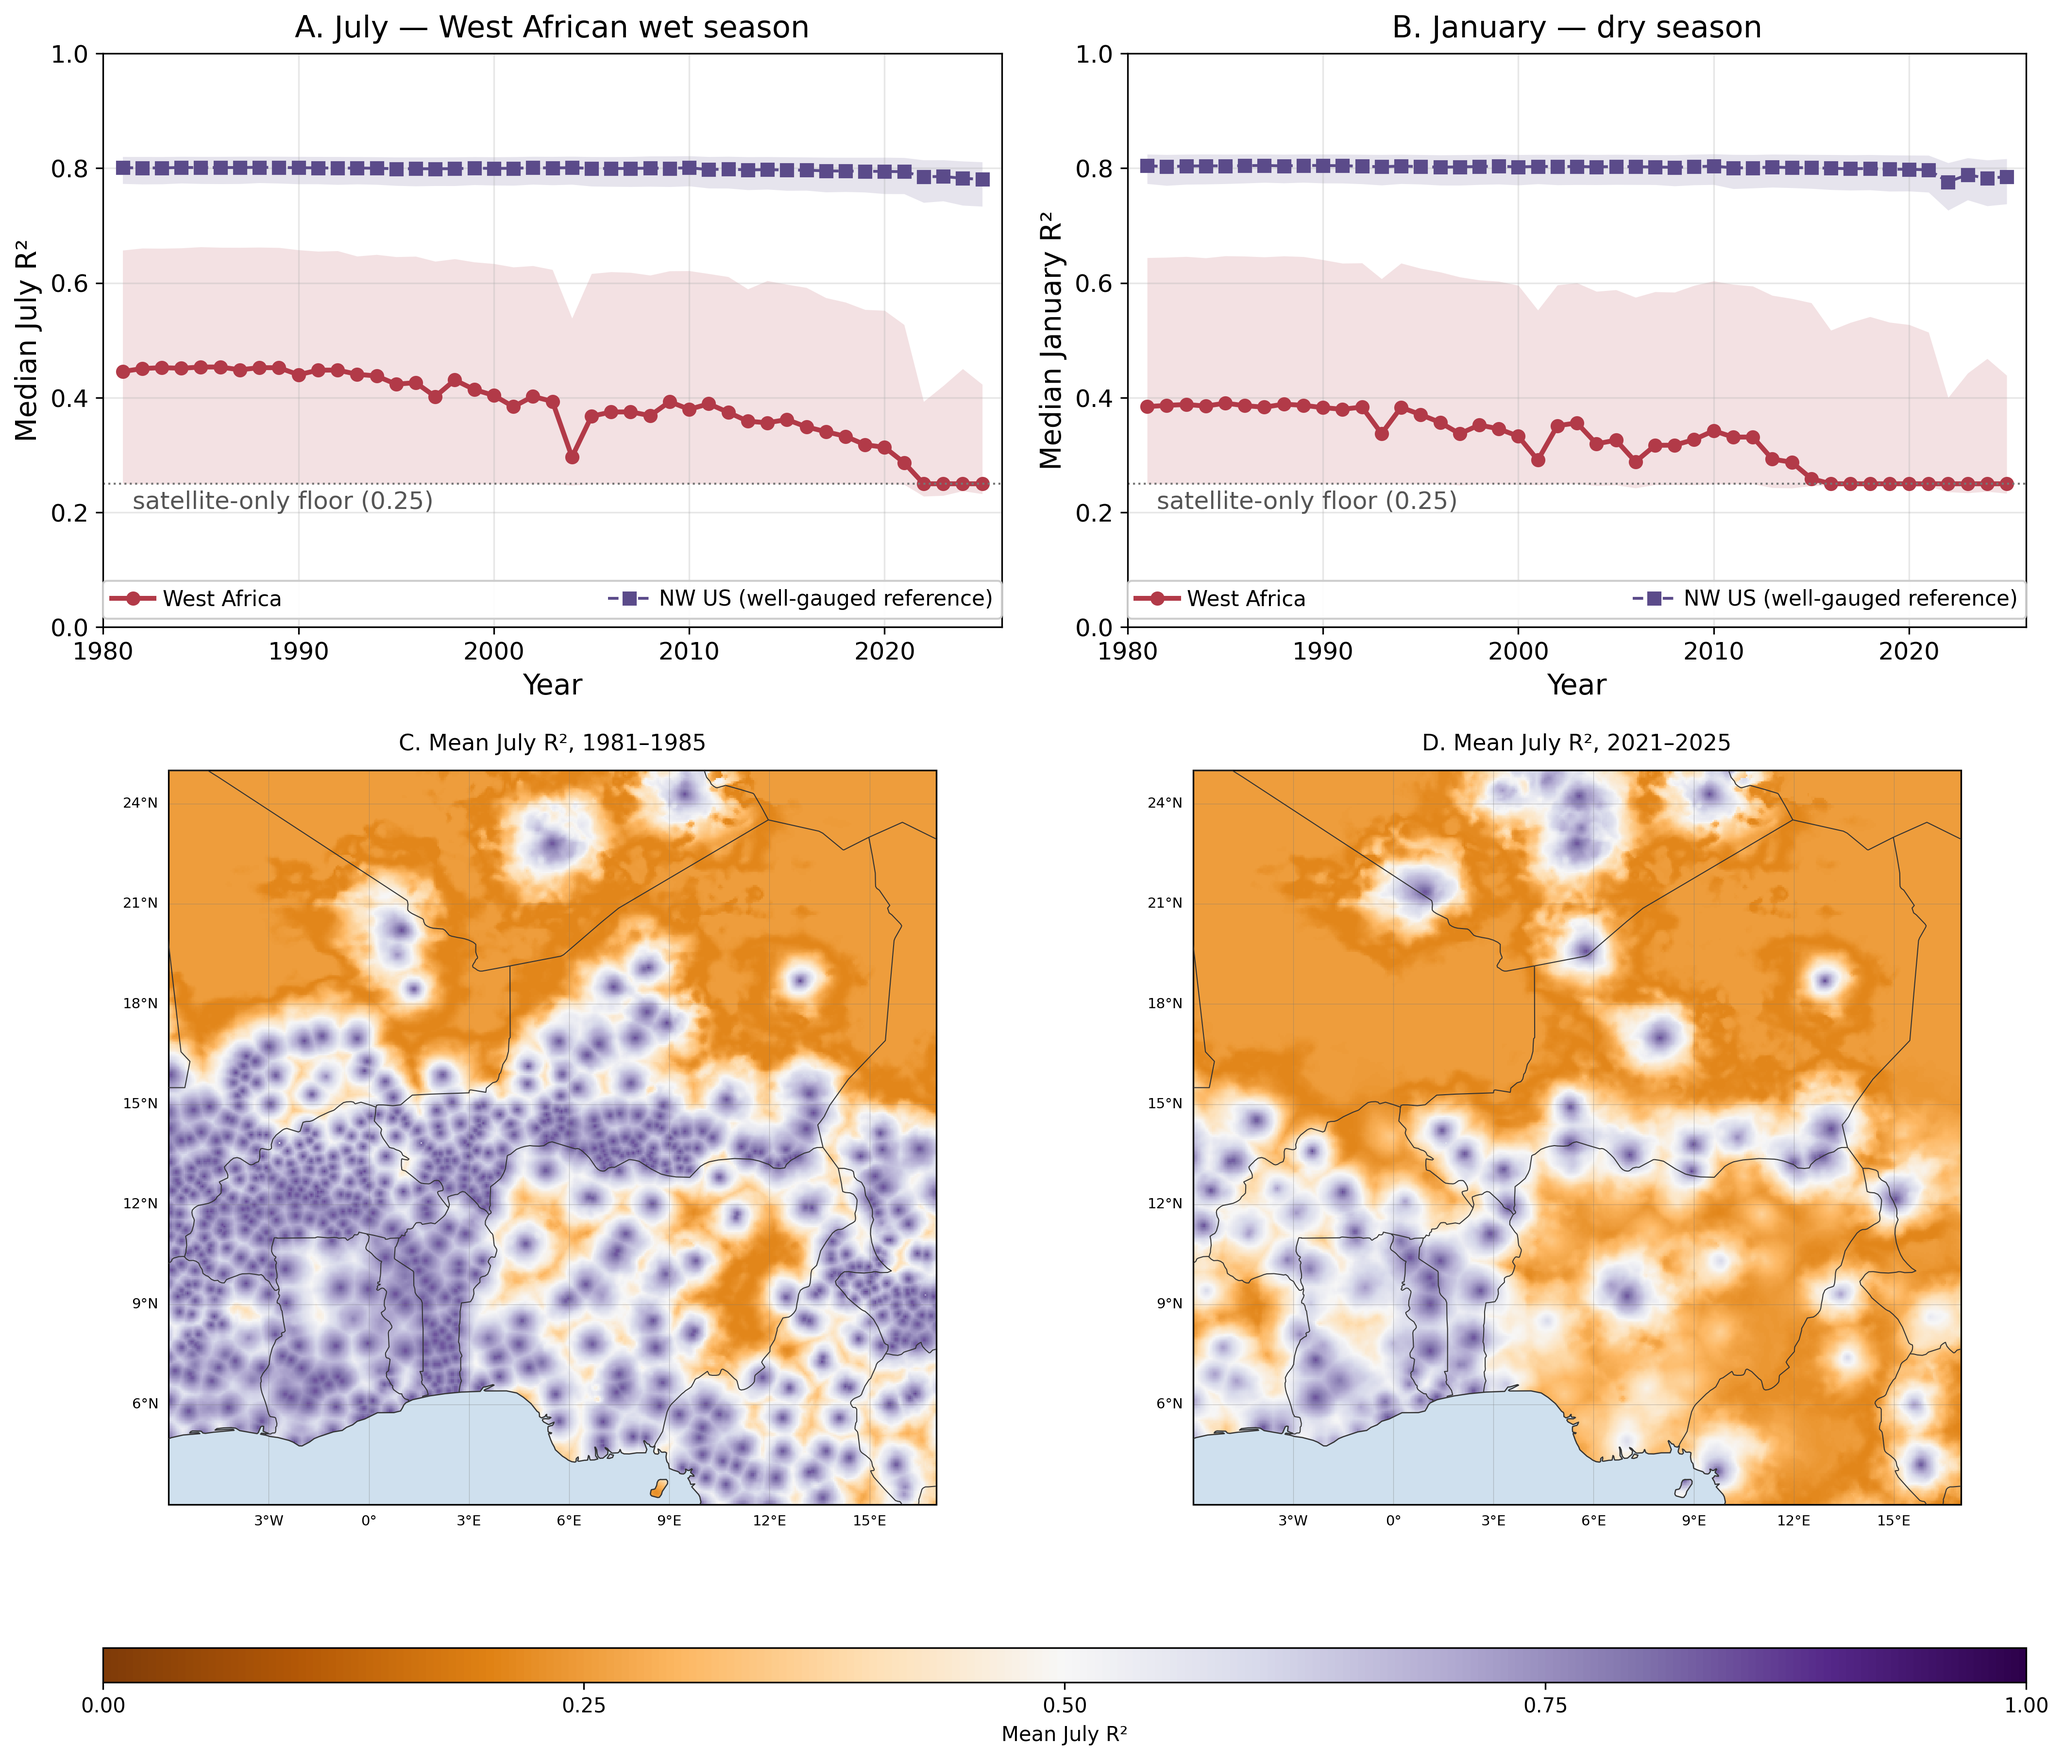
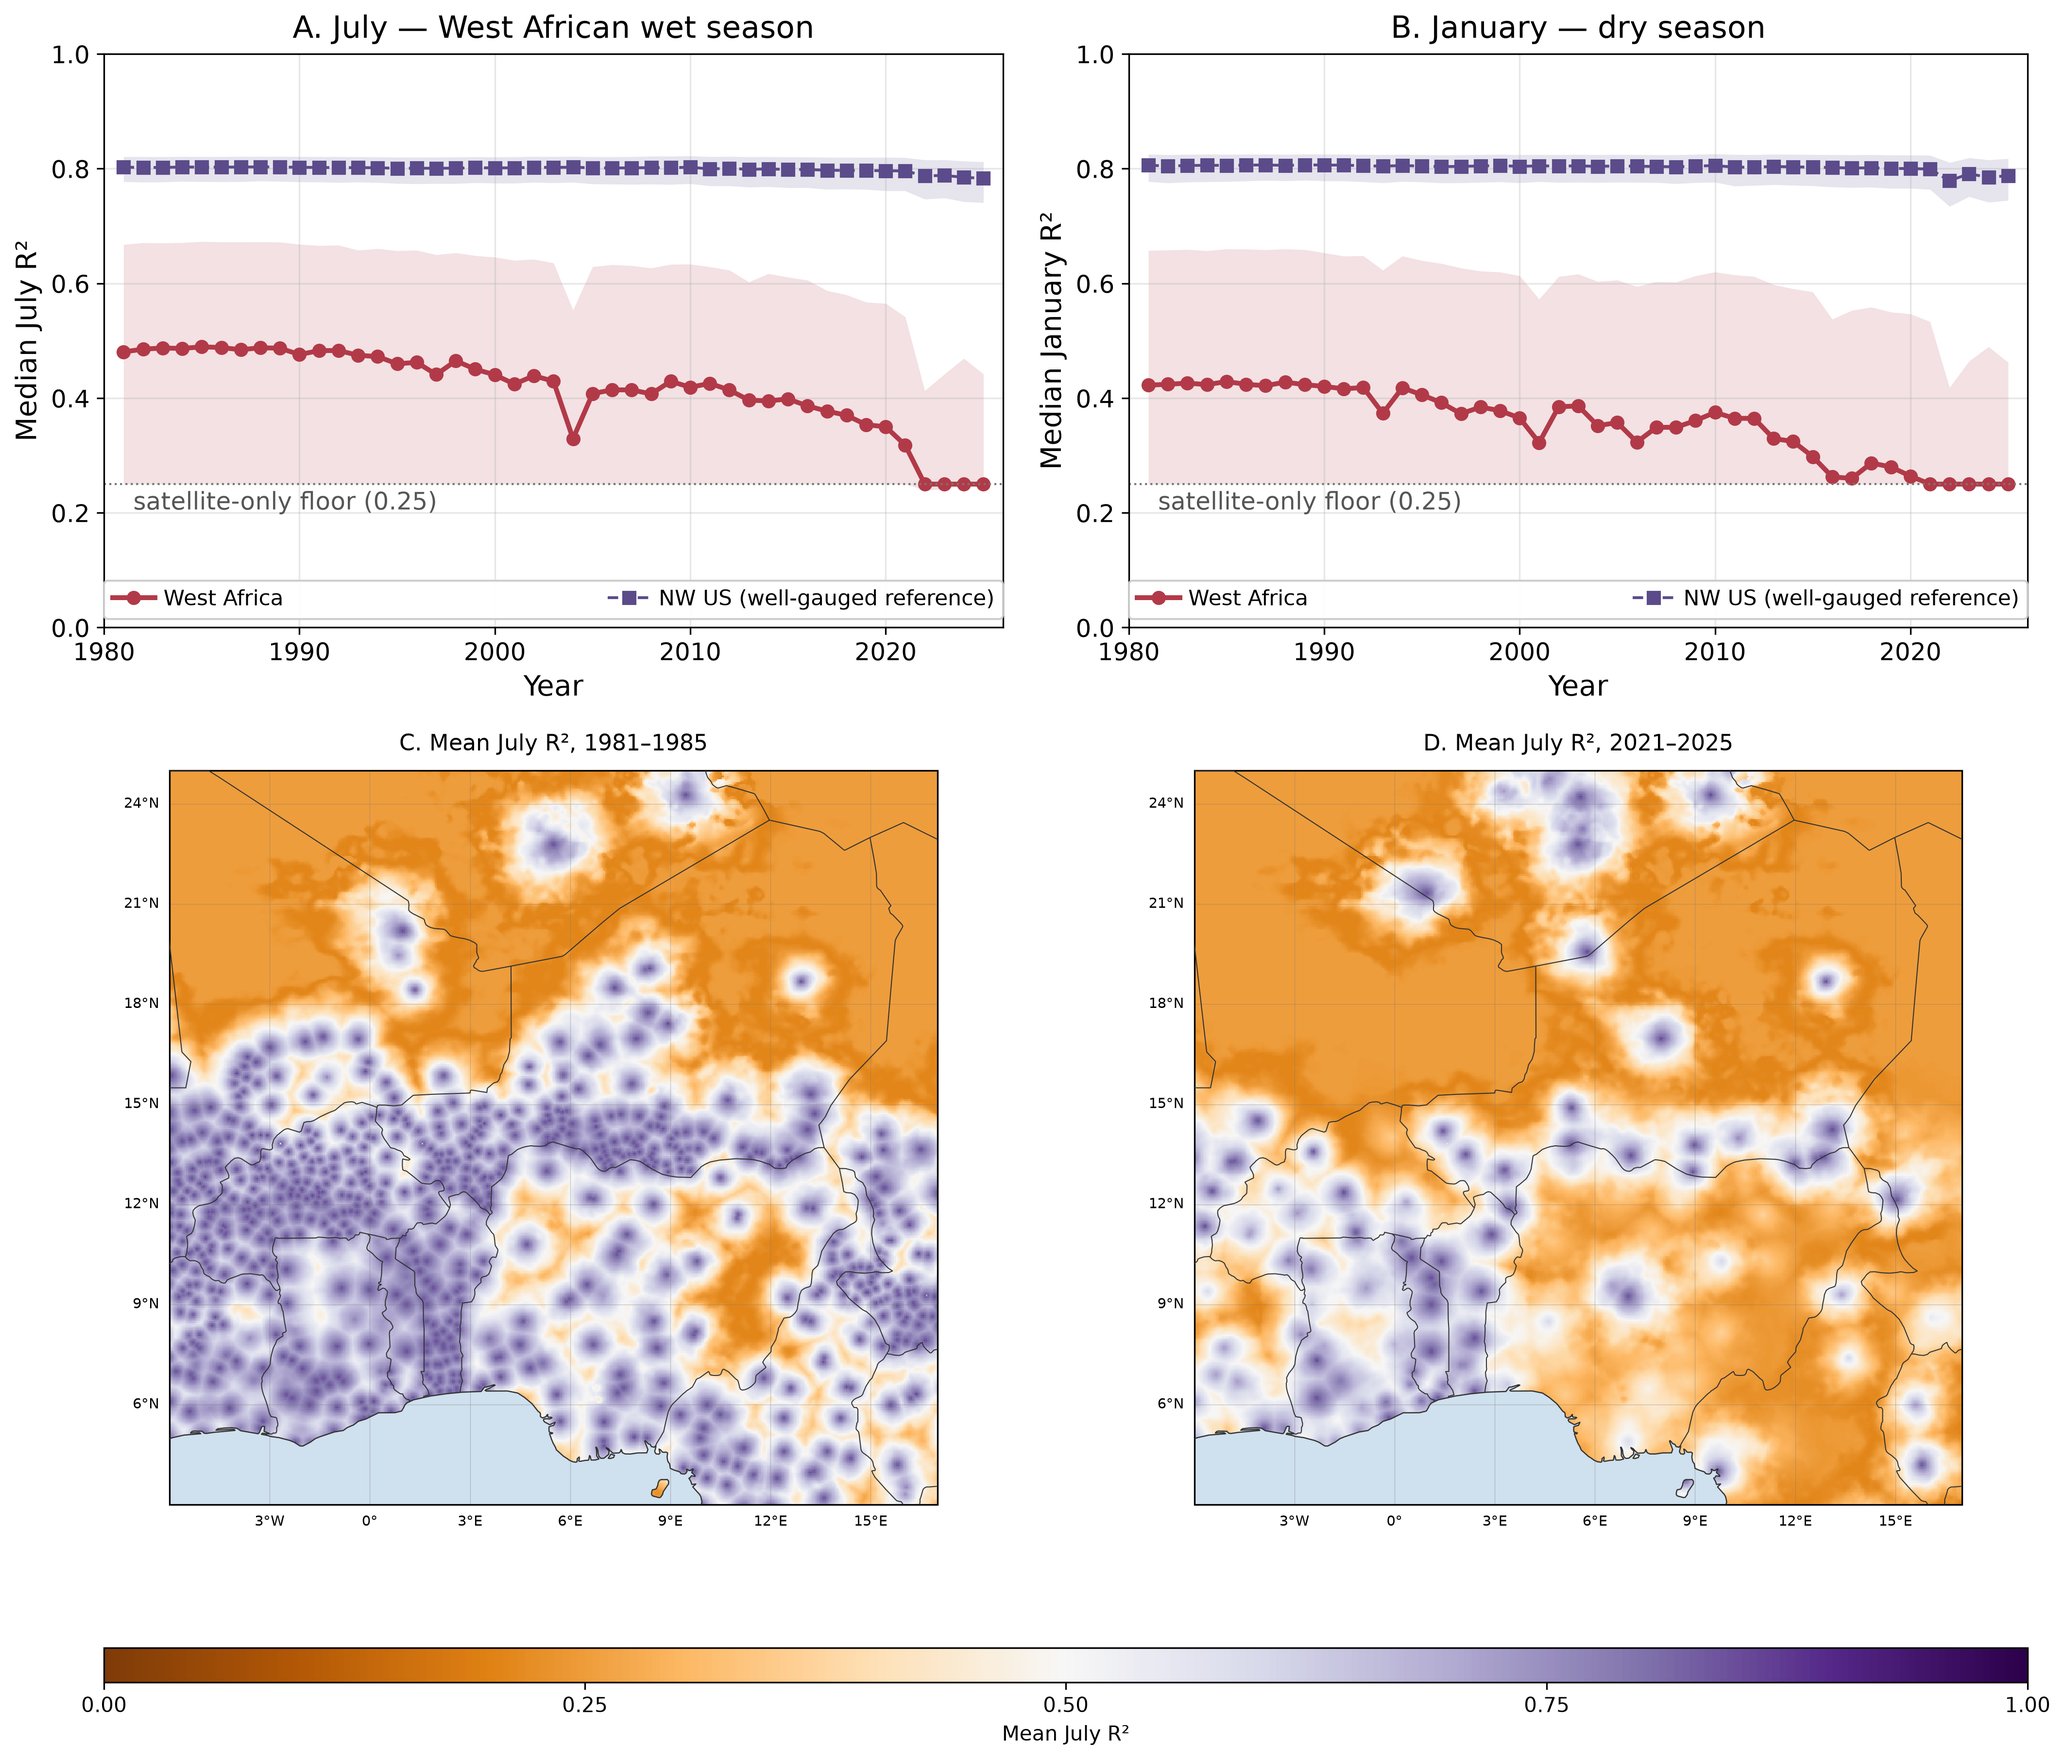
Exclude ocean pixels from the R² statistics and maps
The CHIRPS R² GeoTIFFs carry no nodata tag and store ocean as 0, a value
Eq. 10 cannot produce (its minimum is ~0.207). Those pixels were counted in
the regional medians and percentiles. Treating 0 as no data raises the
early-1980s West Africa July median from 0.45 to 0.49; values from 2022 on
(0.25) and the NW US reference (~0.80) are unchanged. Figure 2 and
r2_timeseries.csv are regenerated.

diff --git a/r2_diagnostic.py b/r2_diagnostic.py
@@ -93,7 +93,9 @@ def read_region_values(path: Path, region: Region) -> np.ndarray:
         nodata = ds.nodata
         if nodata is not None:
             arr = arr[arr != nodata]
-        arr = arr[(arr >= 0) & (arr <= 1)]
+        # The R² files carry no nodata tag and store ocean as 0, a value Eq. 10
+        # cannot produce (its minimum is ~0.207), so 0 is treated as no data.
+        arr = arr[(arr > 0) & (arr <= 1)]
     return arr
 
 
@@ -106,7 +108,7 @@ def read_region_array(path: Path, region: Region) -> tuple[np.ndarray, rasterio.
         transform = ds.window_transform(win)
         if nodata is not None:
             arr[arr == nodata] = np.nan
-        arr[(arr < 0) | (arr > 1)] = np.nan
+        arr[(arr <= 0) | (arr > 1)] = np.nan  # 0 = ocean, see read_region_values
     return arr, transform
 
 
